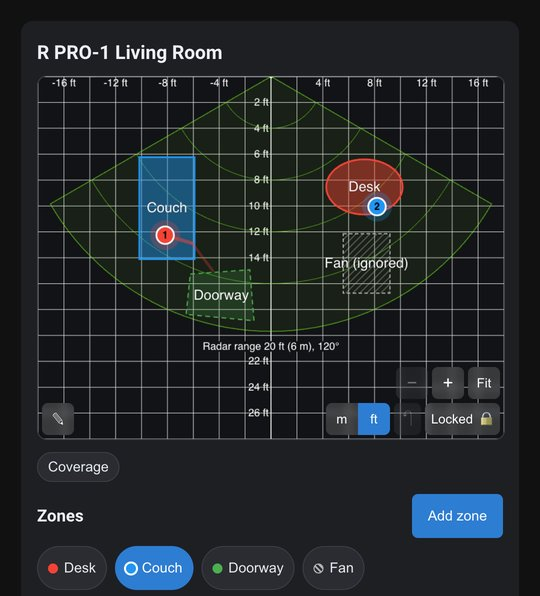
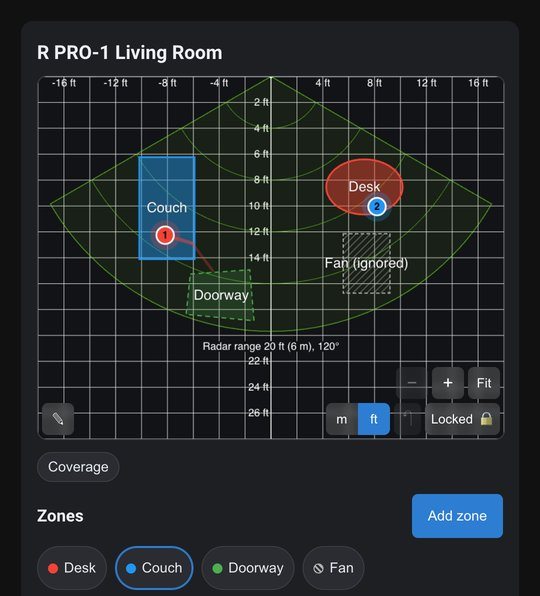
docs: show the Apollo mmWave zone chip's ring for the picked zone
A picked zone chip on the 2.4.0 card no longer takes the blue fill, on
which a blue zone's dot looked as hollow as a zone not drawn yet; it keeps
the plain fill with a colored ring. The zone map renders that show a picked
chip are made again from the fixed card, and the Zones panel text says how
the picked chip looks.

Changed region(s): [[0.2074, 0.906, 0.3556, 0.9966]]

diff --git a/docs/products/general/setup/apollo-mmwave-dashboard.md b/docs/products/general/setup/apollo-mmwave-dashboard.md
@@ -357,7 +357,7 @@ Press **Add zone** beside the **Zones** heading. The new zone is named **Zone 1*
 
 ### Pick a zone in the Zones panel
 
-Each zone has a button under the **Zones** heading, with a dot in the zone's color on the map. The dot is hollow while the zone isn't drawn yet, and gray and hatched for an ignore zone. Press a zone's button to pick it. You can also tap the zone on the map: on a locked map, and in Rectangle or Ellipse mode on an unlocked one, a tap picks the zone under it, the smallest one where zones overlap. When the card opens, the first zone is picked. While the map is unlocked, the picked zone's outline is thicker.
+Each zone has a button under the **Zones** heading, with a dot in the zone's color on the map. The dot is hollow while the zone isn't drawn yet, and gray and hatched for an ignore zone. The picked zone's button has a colored ring around it. Press a zone's button to pick it. You can also tap the zone on the map: on a locked map, and in Rectangle or Ellipse mode on an unlocked one, a tap picks the zone under it, the smallest one where zones overlap. When the card opens, the first zone is picked. While the map is unlocked, the picked zone's outline is thicker.
 
 The picked zone's editor sits under the buttons, with the zone's number as its heading, such as **Zone 2**:
 
